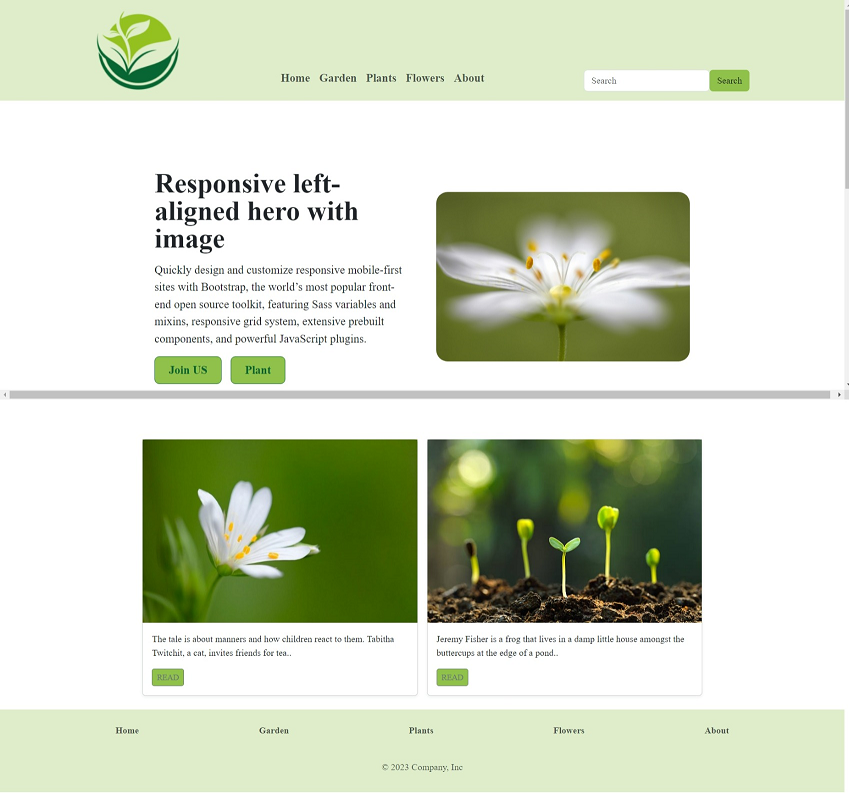
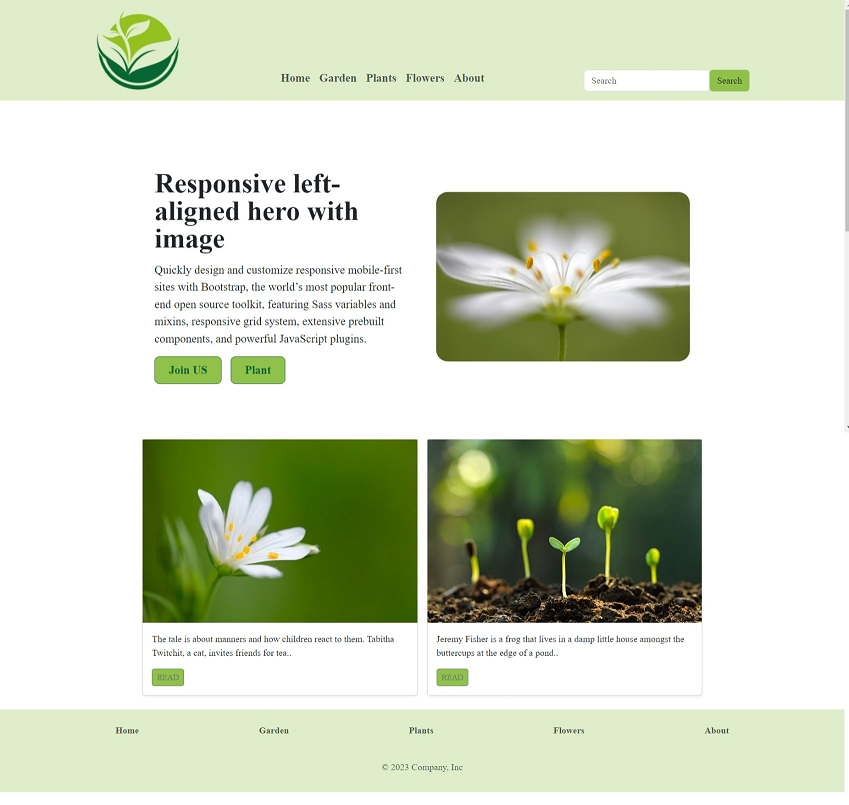
bootstrap-task 09/03/2023, 8:50AM

Changed region(s): [[0.0, 0.4658, 0.98, 0.4969], [0.98, 0.2174, 1.0, 0.2795]]

diff --git a/Extra-website/bootstrap-ex.css b/Extra-website/bootstrap-ex.css
@@ -1,6 +1,7 @@
 body{
     font-family: 'Merriweather';
-    
+    overflow-x: hidden;
+
 }
 .nav-pills .nav-link{
 color: #076633; font-family: 'Merriweather'; font-weight: bold; font-size: large;font-size: 20px;

diff --git a/index.css b/index.css
@@ -1,6 +1,7 @@
 body{
     font-family: 'Merriweather';
-    
+    overflow-x: hidden;
+
 }
 .nav-pills .nav-link{
 color: #fcfaee; font-family: 'Merriweather'; font-weight: bold; font-size: large;font-size: 20px;
